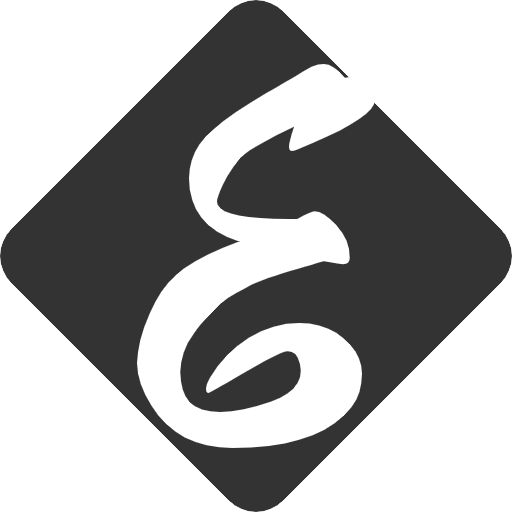
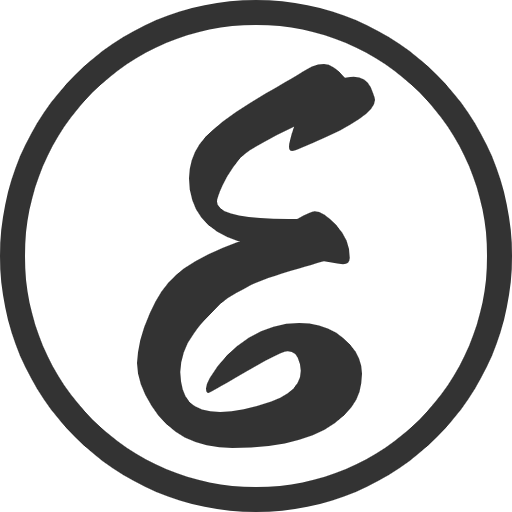
:art: 更新相关元数据和图标 :lipstick: 调整样式

diff --git a/index.html b/index.html
@@ -5,12 +5,11 @@
     <meta charset="UTF-8" />
     <meta http-equiv="X-UA-Compatible" content="IE=edge" />
     <meta name="viewport" content="width=device-width, initial-scale=1.0, maximum-scale=1.0, user-scalable=no" />
-    <meta name="description" content="ChenPlus Homepage'" />
-    <meta name="keywords" content="ChenPlus" />
-    <meta name="author" content="ChenPlus" />
-    <title>Eliaukの小客栈</title>
-    <link rel="shortcut icon" type="image/svg" href="favicon.svg" />
-
+    <meta name="description" content="ArcSurge Homepage" />
+    <meta name="keywords" content="ArcSurge" />
+    <meta name="author" content="ArcSurge" />
+    <title>ArcSurgeの小客栈</title>
+    <link rel="shortcut icon" type="image/x-icon" href="favicon.ico" />
     <link rel="stylesheet" type="text/css" href="static/css/font-awesome.min.css" />
     <link rel="stylesheet" type="text/css" href="static/css/animation.css" />
     <link rel="stylesheet" type="text/css" href="static/css/package.css" />
@@ -47,10 +46,10 @@
             ], document.getElementById("welcome"));
             window.setInterval(() => {
                 let runDate = getRunDate("2021-01-01");
-                $("#blogRunTimeSpan").text("This blog has running : " + runDate.daysold + " d " + runDate
-                    .hrsold + " h " + runDate.minsold + " m " + runDate.seconds + " s");
+                $("#blogRunTimeSpan").text("This blog has running : " + runDate.daysold + " d " + runDate.hrsold + " h " + runDate.minsold + " m " + runDate.seconds + " s");
             }, 500);
         };
+
         /**
          * 运行时间
          * @param dateString 年-月-日
@@ -82,82 +81,64 @@
 </head>
 
 <body>
-    <div class="page-loader-wrapper">
-        <div class="loader"></div>
-    </div>
-    <div id="main-box" class="background_img tl-overflow-hidden tl-display-block tl-position-relative">
-        <div class="tl-margin-top-80 tl-text-center tl-width-100-percent">
-            <span class="tl-text-no-select el-avatar tl-background-none"
-                style="height: 150px; width: 180px; line-height: 150px">
-                <img src="./static/images/icon_avatar.svg" style="object-fit: cover" />
-            </span>
-            <div
-                class="init_title tl-margin-top-20 tl-font-40-px tl-color-white tl-text-shadow-small tl-text-no-select">
-                Eliauk
-            </div>
-            <div class="social-icon ac anim fadeInUp s01 delay-0-9s">
-                <a class="icon vhm" target="_blank" href="https://www.eliauk.com/">
-                    <span class="box"></span>
-                    <i class="fa fa-send vhm-item"></i>
-                </a>
-                <a class="icon vhm" target="_blank" href="./static/images/WeChat.png">
-                    <span class="box"></span>
-                    <i class="fa fa-wechat vhm-item"></i>
-                </a>
-                <a class="icon vhm" target="_blank" href="./static/images/QQ.png">
-                    <span class="box"></span>
-                    <i class="fa fa-qq vhm-item"></i>
-                </a>
-                <a class="icon vhm" target="_blank" href="https://github.com/lzyws739307453">
-                    <span class="box"></span>
-                    <i class="fa fa-github-alt vhm-item"></i>
-                </a>
-
-                <a class="icon vhm" target="_blank" href="https://api.eliauk.com/">
-                    <span class="box"></span>
-                    <i class="fa fa-skyatlas vhm-item"></i>
-                </a>
-            </div>
-            <!-- [ SOCIAL ICON END ] -->
+<div class="page-loader-wrapper">
+    <div class="loader"></div>
+</div>
+<div id="main-box" class="background_img tl-overflow-hidden tl-display-block tl-position-relative">
+    <div class="tl-margin-top-80 tl-text-center tl-width-100-percent">
+        <div class="tl-text-no-select el-avatar tl-background-none">
+            <img src="static/images/avatar.png" style="object-fit: cover" alt="avatar" />
         </div>
-        <div class="tl-text-center tl-font-30-px tl-color-white tl-text-shadow-small tl-text-no-select">
+        <div class="init_title tl-margin-top-20 tl-font-40-px tl-color-white tl-text-shadow-small tl-text-no-select">
+            ArcSurge
+        </div>
+        <div class="social-icon ac anim fadeInUp s01 delay-0-9s">
+            <a class="icon vhm" target="_blank" href="https://www.eliauk.top/"> <span class="box"></span>
+                <i class="fa fa-send vhm-item"></i> </a>
+            <a class="icon vhm" target="_blank" href="./static/images/WeChat.png"> <span class="box"></span>
+                <i class="fa fa-wechat vhm-item"></i> </a>
+            <a class="icon vhm" target="_blank" href="./static/images/QQ.png"> <span class="box"></span>
+                <i class="fa fa-qq vhm-item"></i> </a>
+            <a class="icon vhm" target="_blank" href="https://github.com/arcsurge"> <span class="box"></span>
+                <i class="fa fa-github-alt vhm-item"></i> </a>
+            <a class="icon vhm" target="_blank" href="https://api.eliauk.top/"> <span class="box"></span>
+                <i class="fa fa-skyatlas vhm-item"></i> </a>
+        </div>
+        <!-- [ SOCIAL ICON END ] -->
+    </div>
+    <div class="tl-text-center tl-font-30-px tl-color-white tl-text-shadow-small tl-text-no-select">
+        <div class="tl-height-72">
             <div id="welcome"></div>
-            <div
-                class="tl-height-1-pt tl-width-70-percent tl-margin-top-5 tl-margin-bottom-10 tl-margin-auto el-divider el-divider--horizontal">
-            </div>
-            <div class="tl-overflow-hidden">
-                <h5 class="init_title tl-margin-20-0 tl-font-24-px tl-color-white tl-text-shadow-small">
-                    “大圣，此去欲何?”
-                </h5>
-                <h5 class="init_title tl-margin-20-0 tl-font-24-px tl-color-white tl-text-shadow-small">
-                    “踏南天，碎凌霄”
-                </h5>
-                <h5 class="init_title tl-margin-20-0 tl-font-24-px tl-color-white tl-text-shadow-small">
-                    “若一去不回……”
-                </h5>
-                <h5 class="init_title tl-margin-20-0 tl-font-24-px tl-color-white tl-text-shadow-small">
-                    “便一去不回”
-                </h5>
-            </div>
+            <div class="tl-height-1-pt tl-width-70-percent tl-margin-top-5 tl-margin-bottom-10 tl-margin-auto el-divider el-divider--horizontal"></div>
+        </div>
+        <div class="tl-overflow-hidden">
+            <h5 class="init_title tl-margin-20-0 tl-font-24-px tl-color-white tl-text-shadow-small">
+                “大圣，此去欲何?”
+            </h5>
+            <h5 class="init_title tl-margin-20-0 tl-font-24-px tl-color-white tl-text-shadow-small">
+                “踏南天，碎凌霄”
+            </h5>
+            <h5 class="init_title tl-margin-20-0 tl-font-24-px tl-color-white tl-text-shadow-small">
+                “若一去不回……”
+            </h5>
+            <h5 class="init_title tl-margin-20-0 tl-font-24-px tl-color-white tl-text-shadow-small">
+                “便一去不回”
+            </h5>
         </div>
     </div>
-    <div class="footer-box">
-        <!-- 标语 -->
-
-        <!-- 运行时间 -->
-        <div>
-            <span id="blogRunTimeSpan"></span>
-            <span class="footer-face">ღゝ◡╹)ノ♡</span>
-        </div>
-        <div class="tl-text-shadow-small tl-margin-top-10">
-            <a class="footer-box-link el-link el-link--default" href="http://www.beian.gov.cn/portal/registerSystemInfo?recordcode=41142402000631" target="_blank">
-                <img src="./static/images/record-icon.png" class="record-icon" style="object-fit: cover" />
-                <span>豫公网安备41142402000631号</span>
-            </a>
-            |
-            <a class="footer-box-link el-link el-link--default" href="https://beian.miit.gov.cn/" target="_blank">豫ICP备2023003290号</a>
-        </div>
+</div>
+<div class="footer-box">
+    <!-- 运行时间 -->
+    <div>
+        <span id="blogRunTimeSpan"></span> <span class="footer-face">ღゝ◡╹)ノ♡</span>
     </div>
+    <div class="tl-text-shadow-small tl-margin-top-10">
+        <a class="footer-box-link el-link el-link--default" href="https://www.beian.gov.cn/portal/registerSystemInfo?recordcode=41142402000631" target="_blank">
+            <img src="./static/images/record-icon.png" class="record-icon" style="object-fit: cover" alt="record" />
+            <span>豫公网安备41142402000631号</span> </a> |
+        <a class="footer-box-link el-link el-link--default" href="https://beian.miit.gov.cn/" target="_blank">豫ICP备2023003290号</a>
+    </div>
+</div>
 </body>
 
 </html>

diff --git a/static/css/style.css b/static/css/style.css
@@ -5,7 +5,6 @@ html > * {
 }
 
 #main-box {
-    box-shadow: none;
     position: relative;
     height: 100vh;
     overflow-x: hidden;
@@ -47,8 +46,17 @@ a:hover .el-tag {
     background-color: #ffccc7;
 }
 
-.el-avatar img {
-    margin: auto;
+.el-avatar {
+    width: unset !important;
+    height: unset !important;
+}
+
+.el-avatar > img {
+    filter: drop-shadow(0px 3px 5px black) brightness(0) invert(1);
+    -webkit-filter: drop-shadow(0px 3px 5px black) brightness(0) invert(1);
+    width: 150px;
+    height: 150px;
+    margin: 10px;
 }
 
 /*	LOADER
